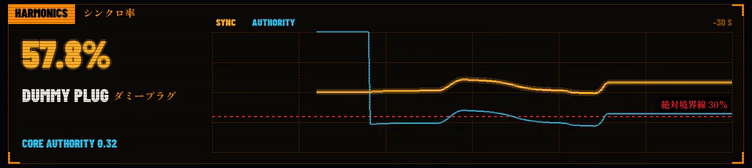
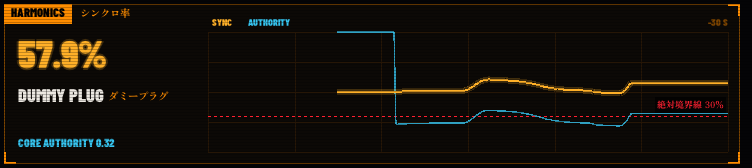
docs: recut the bridge's stills from the 2026-10-05 hero take
The six stills in bridge/README.md came from 2x frames scaled down and
showed the bridge before its mark and edge. They are cut again from
frames of the `just lineup=magi demo-record` take of 2026-10-05 (MAGI
on gpt-oss-20b, Jev and llama-3.1-8b-instruct judging the mock's
scripted core), which the bridge saved at 1x, so no scaling: the same
boxes as before, from the Layout table 4 to 8 px wider on each side,
and EMERGENCY as an 800 by 360 cut from the middle, as RGB PNGs.

- magi-refused.png: the 否決 at 1/3 · NEED 3, frame of bridge.png.
- magi-deliberating.png: the goto as CASPER-3's 可決 lands, with
  BALTHASAR-2 green and MELCHIOR-1 still 審議中, 2/3 · NEED 2; hosted
  ballots land in another order than the mock's, so the alt text
  changes.
- emergency.png: the overlay fully grown as the cable is cut.
- limit-internal.png: internal power at 4:53 87.
- scene.png: the body at the beacon with the human 1.04 m away.
- harmonics.png: 57.9% sync with the dummy plug in the seat.

Each is a third to a half of its old size. bridge/README.md's alt texts
and assets/README.md's rows give the new values and how they are made.
Each still was looked at before this commit.

diff --git a/bridge/README.md b/bridge/README.md
@@ -151,7 +151,7 @@ Three 9 px `stroke`s connect them under the panels, one level at y 430 and two d
 
 ### 審議中 and a landing ballot
 
-![The MAGI block while MAGI deliberate on a goto: BALTHASAR • 2 blue with 審議中, MELCHIOR • 1 white as its 可決 lands, CASPER • 3 green with 可決, and 決議 showing 審議中 with 2/3 · NEED 2](../assets/media/bridge/magi-deliberating.png)
+![The MAGI block while MAGI deliberate on a goto: BALTHASAR • 2 green with 可決, CASPER • 3 white as its 可決 lands, MELCHIOR • 1 blue with 審議中, and 決議 showing 審議中 with 2/3 · NEED 2](../assets/media/bridge/magi-deliberating.png)
 
 While a unit deliberates, `blink(now, 250, 0.5, thinking, thinking_dim)` switches its fill every 125 ms, a hard step with no fade. The same call colors 審議中 in the 決議 box and the header's MAGI light, so all three flicker in phase. When a ballot lands, `unit_panel` lays `paper` over the outline at 85% and fades it out linearly over 160 ms from the time in `State.landed`, so each unit flashes white once as it answers, in the order the ballots arrive.
 
@@ -173,7 +173,7 @@ Across the middle sits a band 164 px high, black at 90%, between two red hazard 
 
 ### Seven segment timer
 
-![The 活動限界 panel on internal power: 4:55 with 63 centiseconds in orange seven segment digits over unlit ghost segments, 内部 lit, and INTERNAL BATTERY with UMBILICAL CABLE CUT · NO QUORUM](../assets/media/bridge/limit-internal.png)
+![The 活動限界 panel on internal power: 4:53 with 87 centiseconds in orange seven segment digits over unlit ghost segments, 内部 lit, and INTERNAL BATTERY with UMBILICAL CABLE CUT · NO QUORUM](../assets/media/bridge/limit-internal.png)
 
 DSEG7 draws every digit at the same width, and its 8 lights every segment. `draw_limit` first draws 8:88 at size 88 in the ghost color 52, 26, 0 and :88 at size 40 beside it, then the real figure right aligned to the ghost's edge in `timer`, with a glow, and the centiseconds small to its right. So the unlit segments show behind the lit ones exactly where a real display has them. `clock` rounds up to the centisecond, so the full five minutes read 5:00 00 and the last moment of power 0:00 01. On internal power with under 30 s left, the figure turns `alert` and shows for 264 ms of every 330, and 内部 fills red; once the power is spent it stays red at 0:00 00. Before the first view, and once views stop, only the ghosts show. The header's mission clock does the same with 88:88 at 20.
 
@@ -189,7 +189,7 @@ While the cable counts as connected, 外部 is lit; on internal power, 内部. O
 
 ### Radar
 
-![The scene as a radar: the body EVA01 at beacon B1 inside orange target brackets, human H1 just beside it with its 0.7 m and 2 m rings, obstacle 01 as a gray disc, the trail curving around it, range rings a meter apart, and HUMAN 1.55 M in red](../assets/media/bridge/scene.png)
+![The scene as a radar: the body EVA01 at beacon B1 inside orange target brackets, human H1 just beside it with its 0.7 m and 2 m rings, obstacle 01 as a gray disc, the trail curving around it, range rings a meter apart, and HUMAN 1.04 M in red](../assets/media/bridge/scene.png)
 
 `draw_scene` fits a `Map` from meters to pixels to `State.span`, everything the scene has shown, plus a meter on every side, and centers it, so the view only ever zooms out. `Map.py` flips y, since the scene's y points up. A scissor keeps the radar inside its panel. Under it lies a 1 m grid in `umber`.
 
@@ -199,7 +199,7 @@ Around the body sit eight range rings a meter apart, every second one brighter, 
 
 ### Harmonics
 
-![The harmonics panel: 57.8% sync with the dummy plug in the seat, the sync trace in orange and the core's authority in blue against the dashed red 30% 絶対境界線](../assets/media/bridge/harmonics.png)
+![The harmonics panel: 57.9% sync with the dummy plug in the seat, the sync trace in orange and the core's authority in blue against the dashed red 30% 絶対境界線](../assets/media/bridge/harmonics.png)
 
 `draw_harmonics` sets the sync ratio at 46 with a glow, red at or under `threshold`, then the seat and the core's authority. Its graph keeps 300 samples, 30 s, newest at the right edge, over a grid of quarters and sixths, 5 s a column. The authority trace is a 1.5 px `cyan` stroke at 80%. The sync trace is drawn twice, a 6 px stroke at 22% as a halo and a 2 px one on top. The 30% 絶対境界線 is `gg`'s dashed `draw_line_with_config`, and its label sits over the traces on a black backing, so the sync trace never runs through it.
 

diff --git a/assets/README.md b/assets/README.md
@@ -22,12 +22,12 @@ Everything here is gehirn's own work under the [EUPL 1.2](../LICENSE), except th
 | --- | --- | --- | --- | --- |
 | [assets/media/magi.gif](media/magi.gif) | MAGI on hosted models refusing the release 1/3 with a person within reach, then passing it 3/3, 800 by 447 | README.md's top | The GIF of one `just lineup=magi demo-record` take on 2026-10-05, MAGI on gpt-oss-20b, Jev and llama-3.1-8b-instruct judging the mock's scripted core, cut again from that take's MP4 with scripts/record.sh's GIF filter, without its first 0.33 s, which still showed the goto's verdict | EUPL 1.2 |
 | [assets/media/bridge.png](media/bridge.png) | The whole bridge, 1280 by 800, as that take's 否決 lands with the human 1.04 m from the body, the mark's contacts lit with the votes | docs/bridge.md's top; website/bridge.png is its copy | A frame the same take saved, as RGB | EUPL 1.2 |
-| [assets/media/bridge/magi-refused.png](media/bridge/magi-refused.png) | The MAGI block during a refused release, 決議 否決 1/3 | bridge/README.md's top | A frame saved as bridge/README.md's Recording frames does, scaled to 1280 by 800 and cropped with ffmpeg around its box in the Layout table | EUPL 1.2 |
+| [assets/media/bridge/magi-refused.png](media/bridge/magi-refused.png) | The MAGI block during a refused release, 決議 否決 1/3 | bridge/README.md's top | A frame of magi.gif's take on 2026-10-05, saved as bridge/README.md's Recording frames does, cropped with ffmpeg around its box in the Layout table | EUPL 1.2 |
 | [assets/media/bridge/magi-deliberating.png](media/bridge/magi-deliberating.png) | The MAGI block deliberating on a goto as a 可決 lands | bridge/README.md, 審議中 and a landing ballot | As magi-refused.png | EUPL 1.2 |
-| [assets/media/bridge/emergency.png](media/bridge/emergency.png) | The EMERGENCY overlay as the cable is cut, an 800 by 360 cut from the window's middle | bridge/README.md, EMERGENCY | A frame saved as magi-refused.png's, scaled to 1280 by 800 and cut to 800 by 360 from the middle with ffmpeg | EUPL 1.2 |
-| [assets/media/bridge/limit-internal.png](media/bridge/limit-internal.png) | The 活動限界 panel on internal power at 4:55 | bridge/README.md, Seven segment timer | As magi-refused.png | EUPL 1.2 |
+| [assets/media/bridge/emergency.png](media/bridge/emergency.png) | The EMERGENCY overlay as the cable is cut, an 800 by 360 cut from the window's middle | bridge/README.md, EMERGENCY | A frame of magi-refused.png's take, cut to 800 by 360 from the middle with ffmpeg | EUPL 1.2 |
+| [assets/media/bridge/limit-internal.png](media/bridge/limit-internal.png) | The 活動限界 panel on internal power at 4:53 | bridge/README.md, Seven segment timer | As magi-refused.png | EUPL 1.2 |
 | [assets/media/bridge/scene.png](media/bridge/scene.png) | The radar: the body at beacon B1, a human within 2 m, an obstacle and the trail | bridge/README.md, Radar | As magi-refused.png, with the ffmpeg line in Recording frames | EUPL 1.2 |
-| [assets/media/bridge/harmonics.png](media/bridge/harmonics.png) | The harmonics panel at 57.8% sync with the dummy plug in the seat | bridge/README.md, Harmonics | As magi-refused.png | EUPL 1.2 |
+| [assets/media/bridge/harmonics.png](media/bridge/harmonics.png) | The harmonics panel at 57.9% sync with the dummy plug in the seat | bridge/README.md, Harmonics | As magi-refused.png | EUPL 1.2 |
 
 ## Website
 
